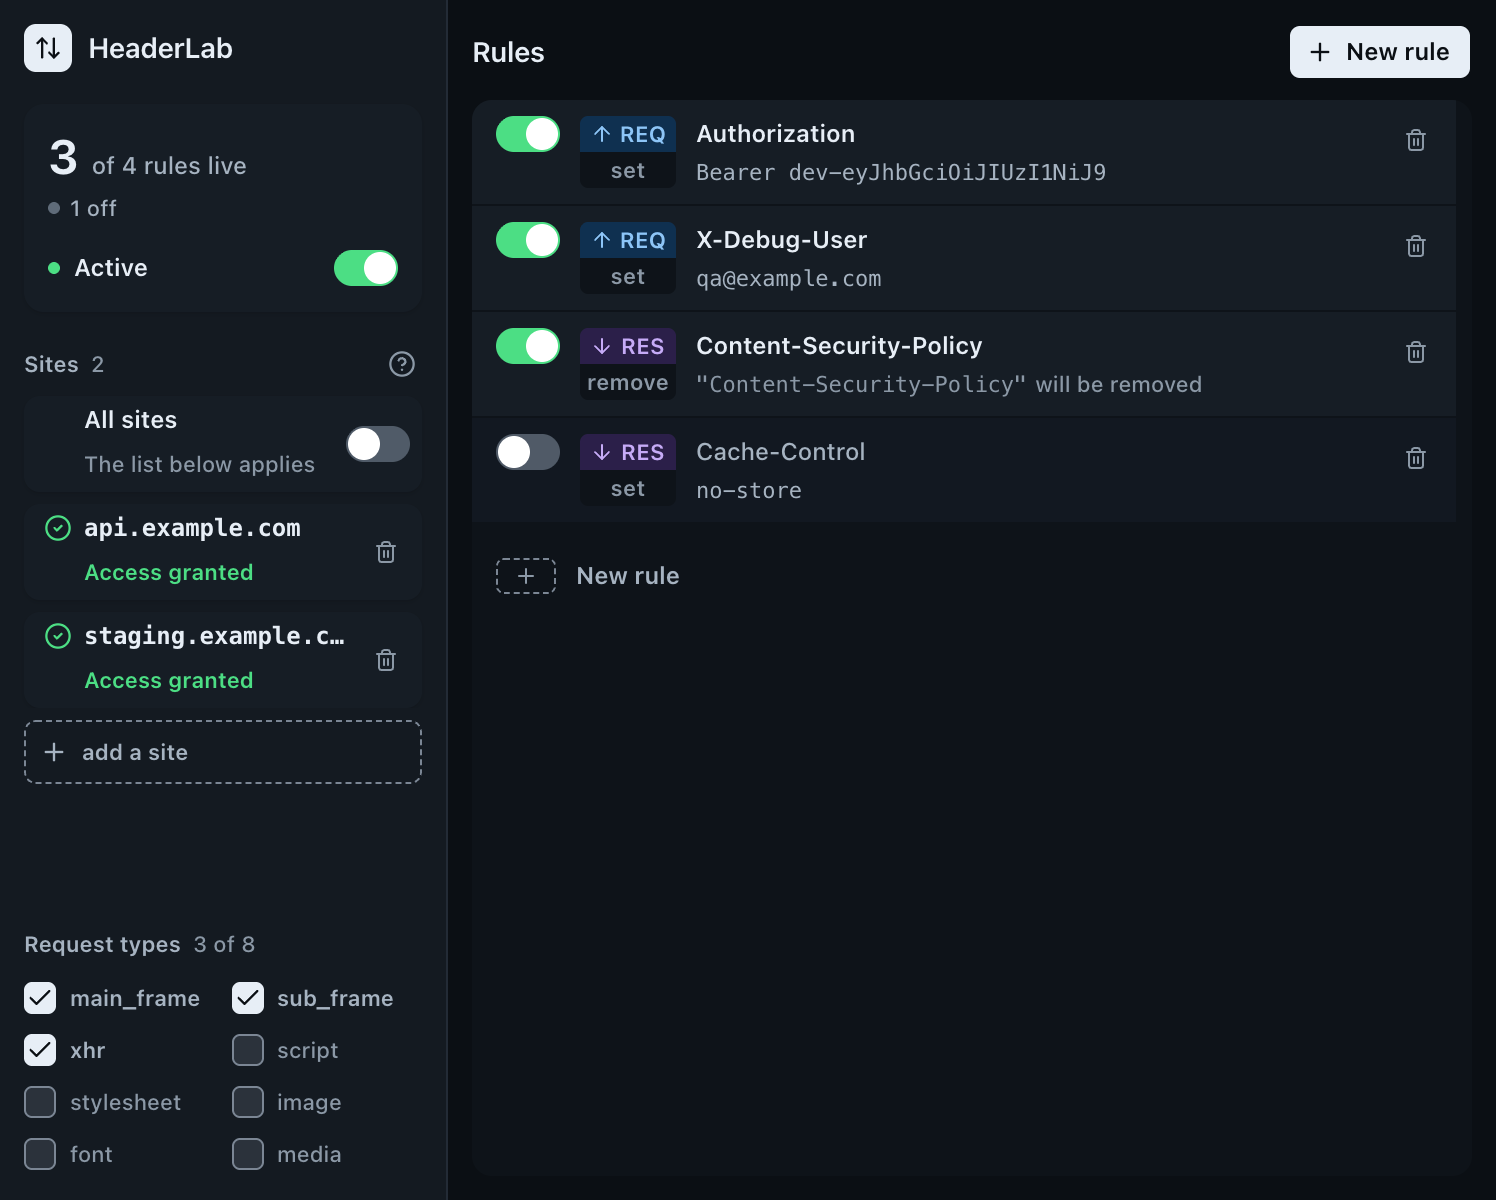
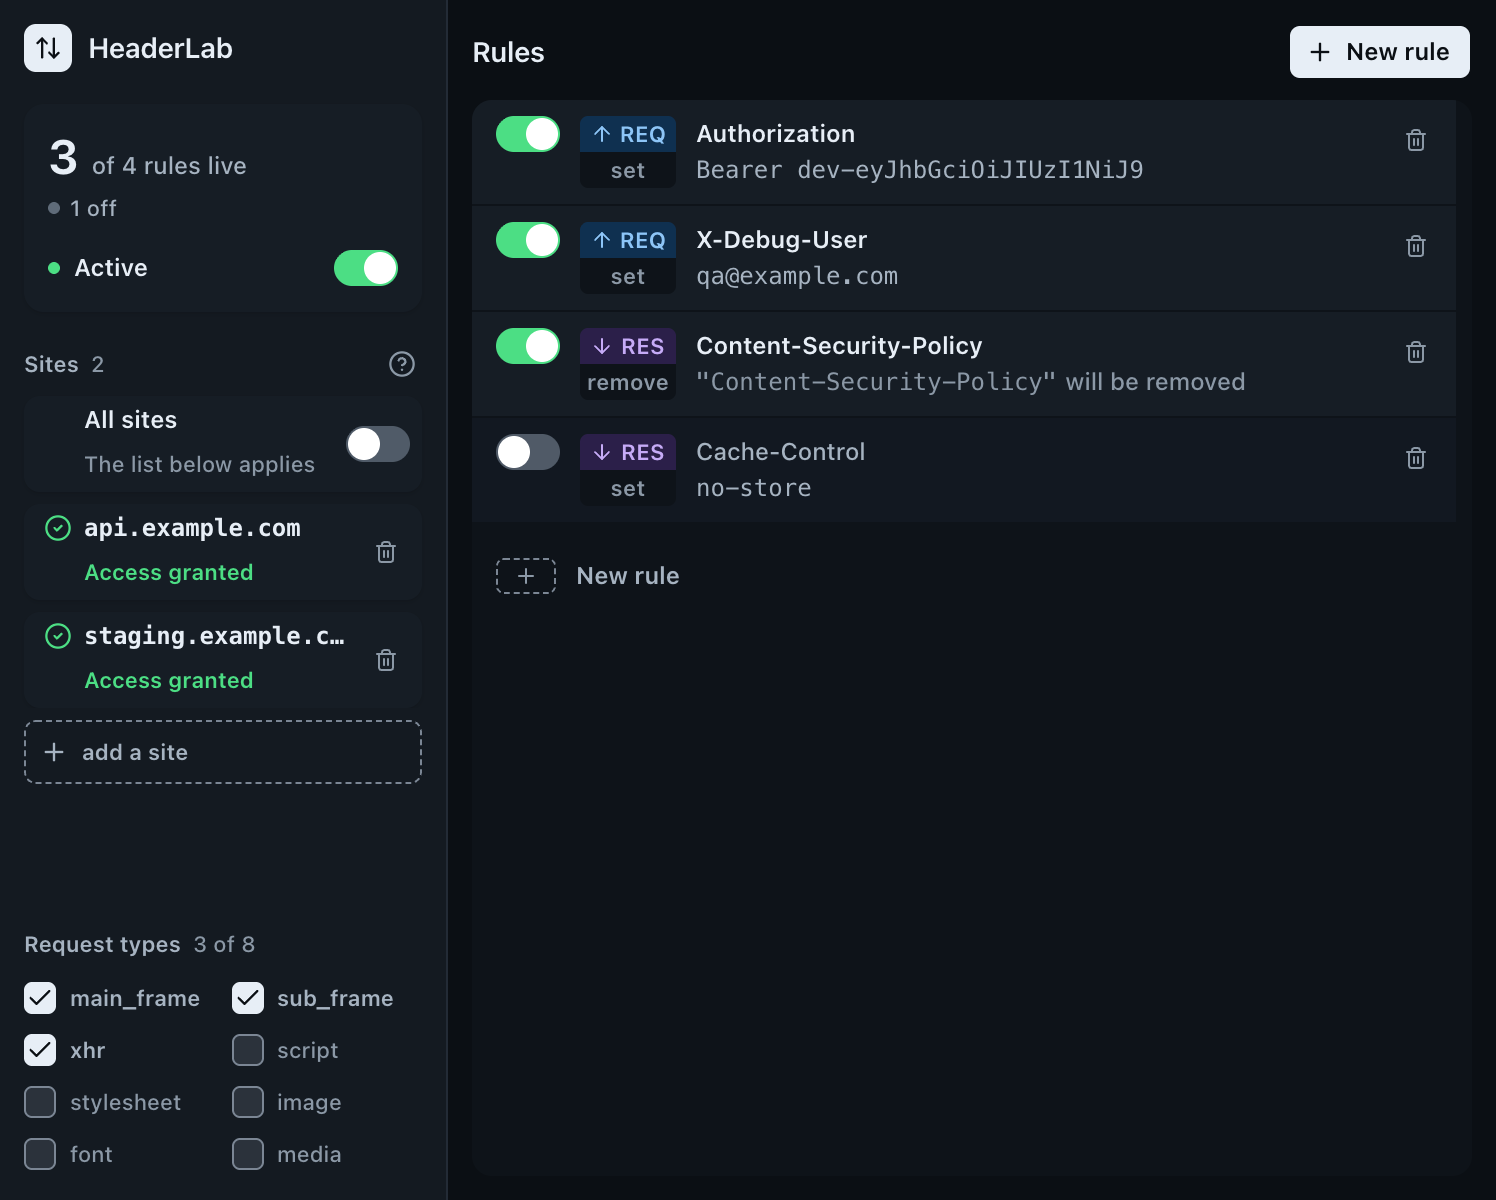
docs: self-stretch 코멘트의 34px/2px 를 타입 통일 이후 숫자로 고친다
50914bf 가 이름·값을 12px/18px 로 통일하고 줄 사이 여백을 걷어내면서, 이
코멘트가 말하던 "34px 콘텐츠, 2px 죽는 공간"이 더는 사실이 아니게 됐다 —
지금은 18+0+18 = 36px 로 거터와 정확히 맞아떨어져 죽는 공간이 없다.
justify-between 이 왜 여전히 필요한지(줄바꿈된 값은 여전히 36px 를 넘을 수
있고, 그때 이름을 거터 배지와 같은 축 위쪽에 고정해야 한다)는 그대로 남겨
적었다.

스크린샷도 새 타입 스케일로 다시 찍었다.

Claude-Session: https://claude.ai/code/session_01AoJqsjMCtVNteQQZDrLcrG

diff --git a/components/RuleCard.tsx b/components/RuleCard.tsx
@@ -326,19 +326,24 @@ export function RuleCard({ rule, diagnostics, onPatch, onDelete, autoFocus }: Ru
 
       {/* `self-stretch` overrides the row's own `items-start` for just this
             child, so its box is exactly as tall as the gutter (36px, two
-            18px badges with no gap between them) rather than only as tall as
-            its own content (34px: 18px name + 2px gap + 14px value, which
-            used to leave 2px of dead space below the value — measured, and
-            the reason the value read as pushed toward the top). `justify-between`
-            inside it pins name to the very top of that box and value to the
-            very bottom, rather than `justify-center`, which was tried first
-            and rejected: centering would have pushed name's own top edge
-            down by half the slack, breaking the one thing the row's
-            `items-start` exists to guarantee — name's first line sitting on
-            the same axis as the badge above it. `justify-between` keeps
-            name's top pixel-identical to before while still using the
-            gutter's full height, which is what "vertically centered against
-            the gutter" turns into once that constraint is held fixed. */}
+            18px badges with no gap between them). It used to matter that
+            this is taller than the column's own content (18px name + 2px
+            gap + 14px value = 34px, 2px of dead space below the value,
+            measured, and the reason the value read as pushed toward the
+            top) — the owner's later request to unify name and value onto
+            one 12px/18px type scale and drop the inter-line margin closed
+            that gap for a single-line value: 18px name + 0 + 18px value is
+            36px, exactly the gutter's own height, so there is no dead space
+            left for `justify-between` to spend. It is kept anyway rather
+            than swapped for `justify-center` or dropped outright, because a
+            *wrapping* value's content can still exceed 36px, and
+            `justify-between` is what keeps name pinned to the very top of
+            the box in that case too — the one thing the row's `items-start`
+            exists to guarantee, name's first line sitting on the same axis
+            as the badge above it. `justify-center` was tried and rejected
+            for the same reason before the type unification and the
+            reasoning did not change: centering would still move name's own
+            top edge by half of whatever slack exists. */}
       <div className="flex min-w-0 flex-1 flex-col justify-between self-stretch">
         {/* Line 1: name, and — since Task 13 — the warning marker beside
               it when one applies. `flex items-center` regardless of whether
